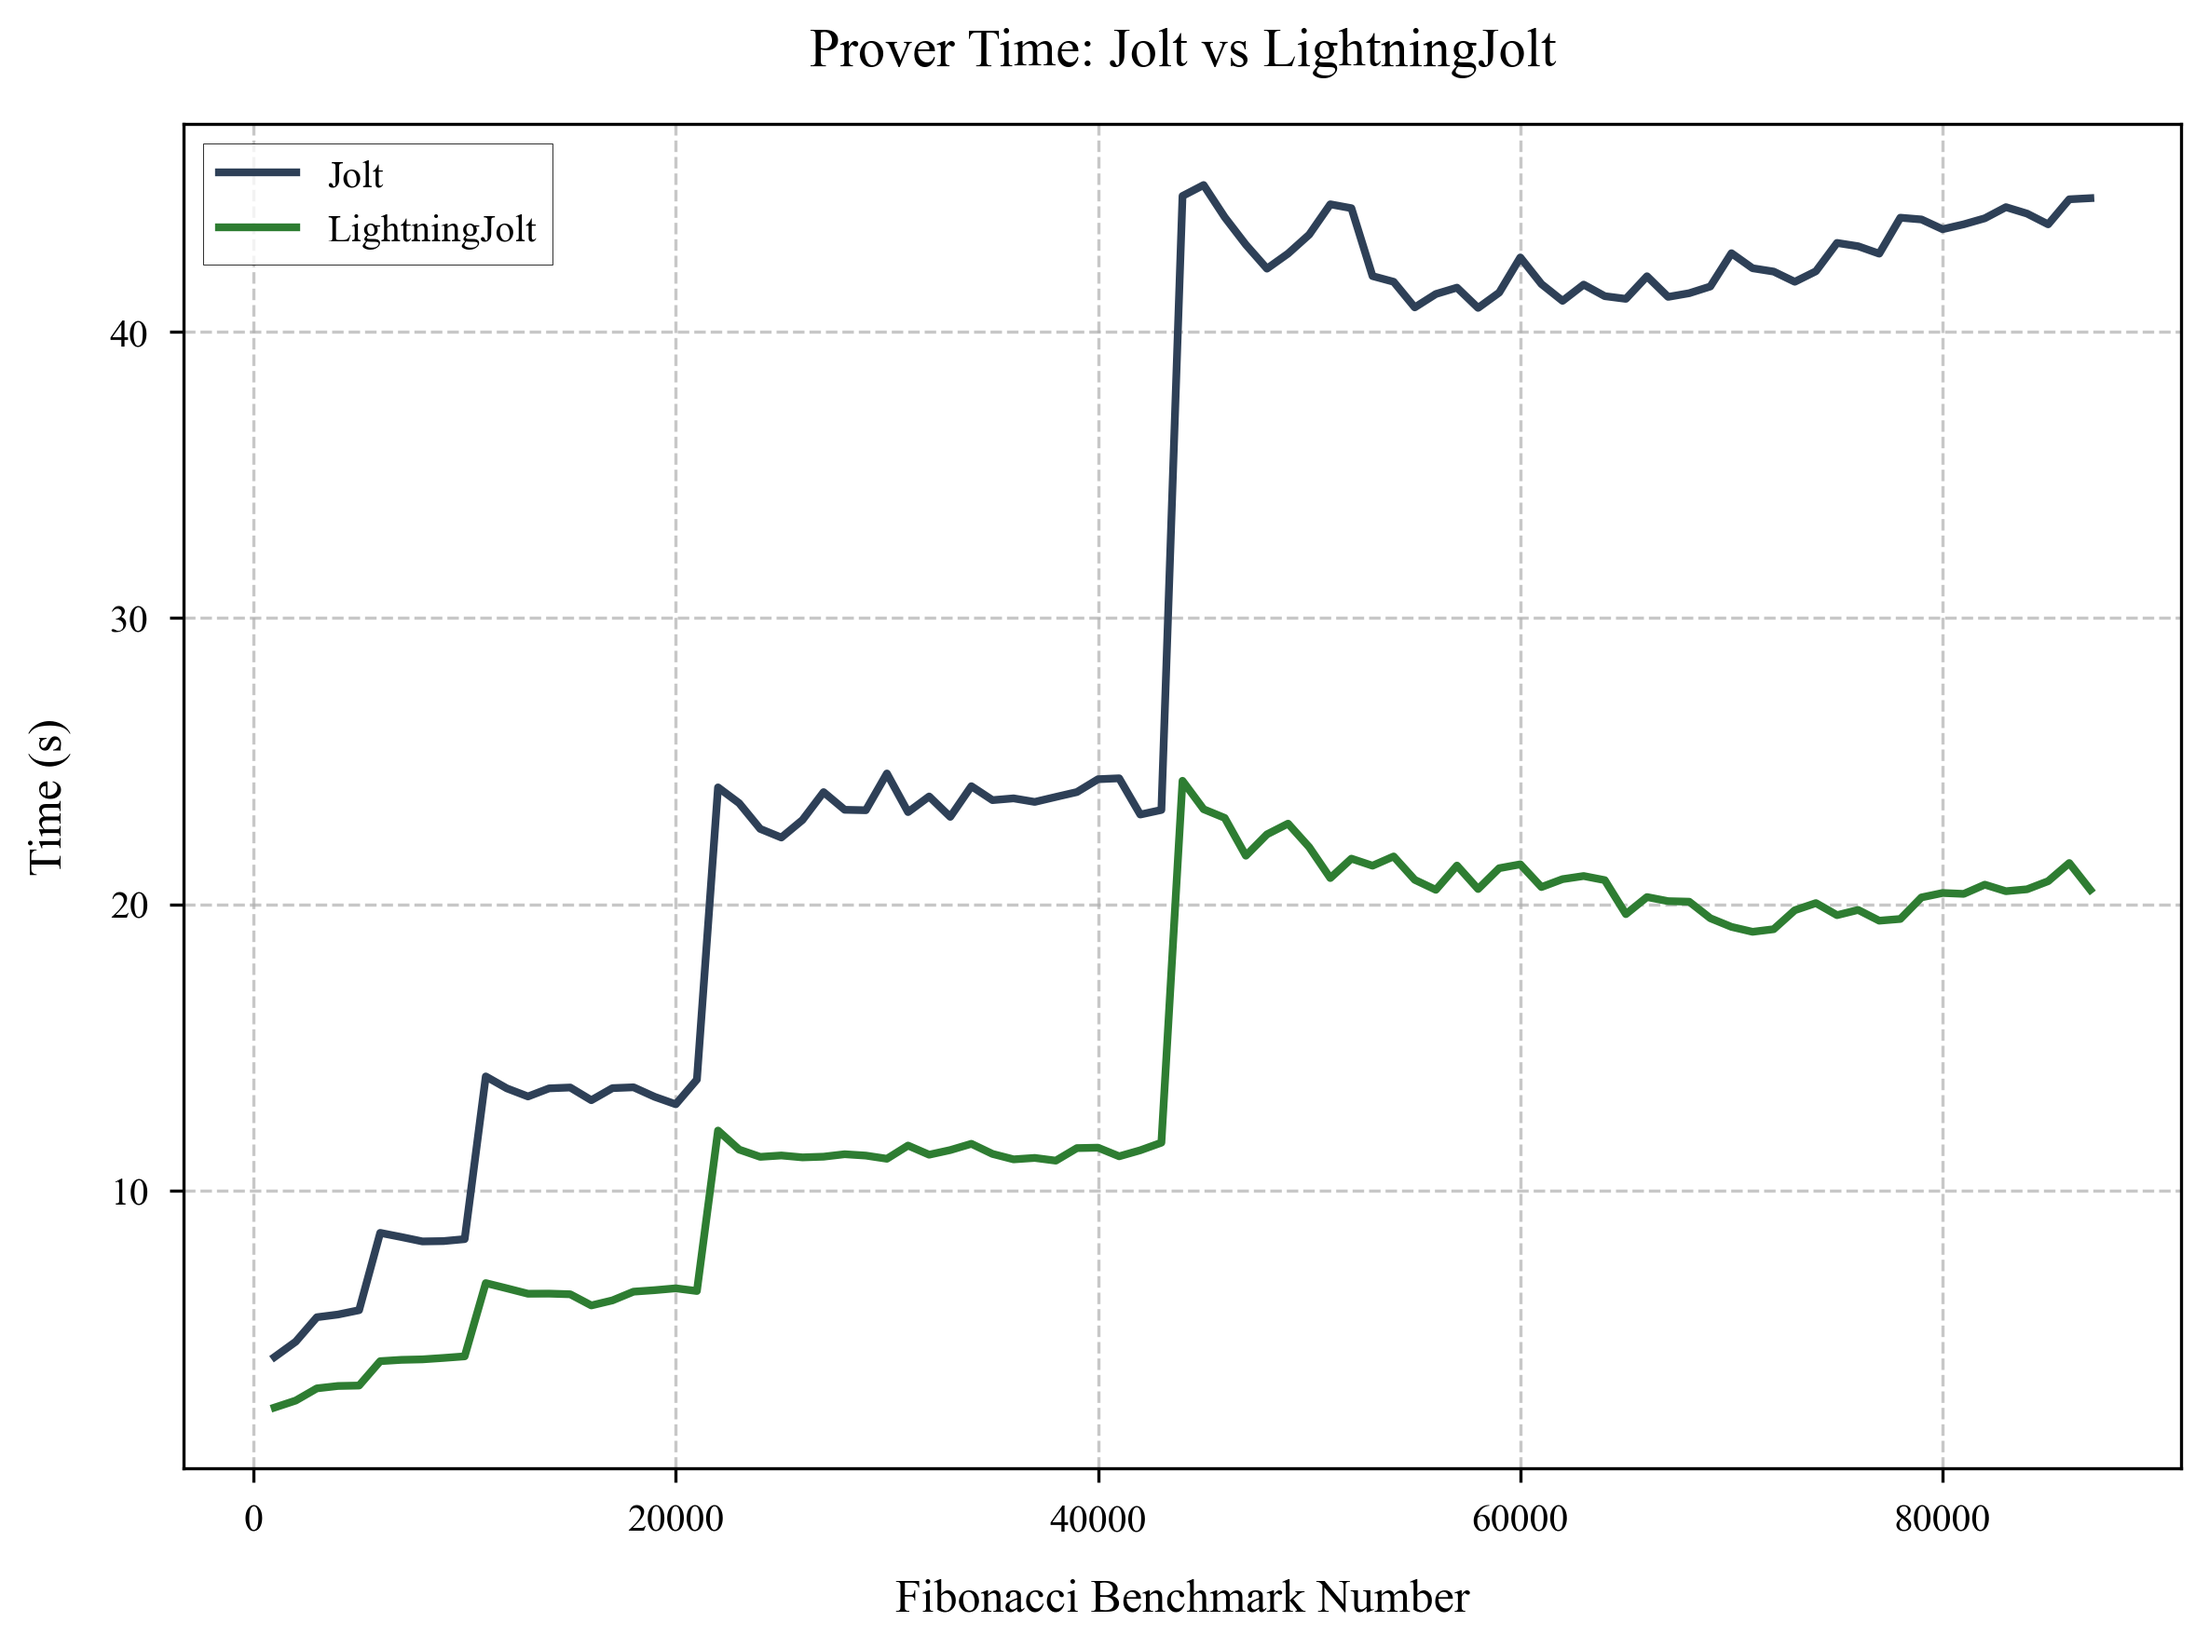
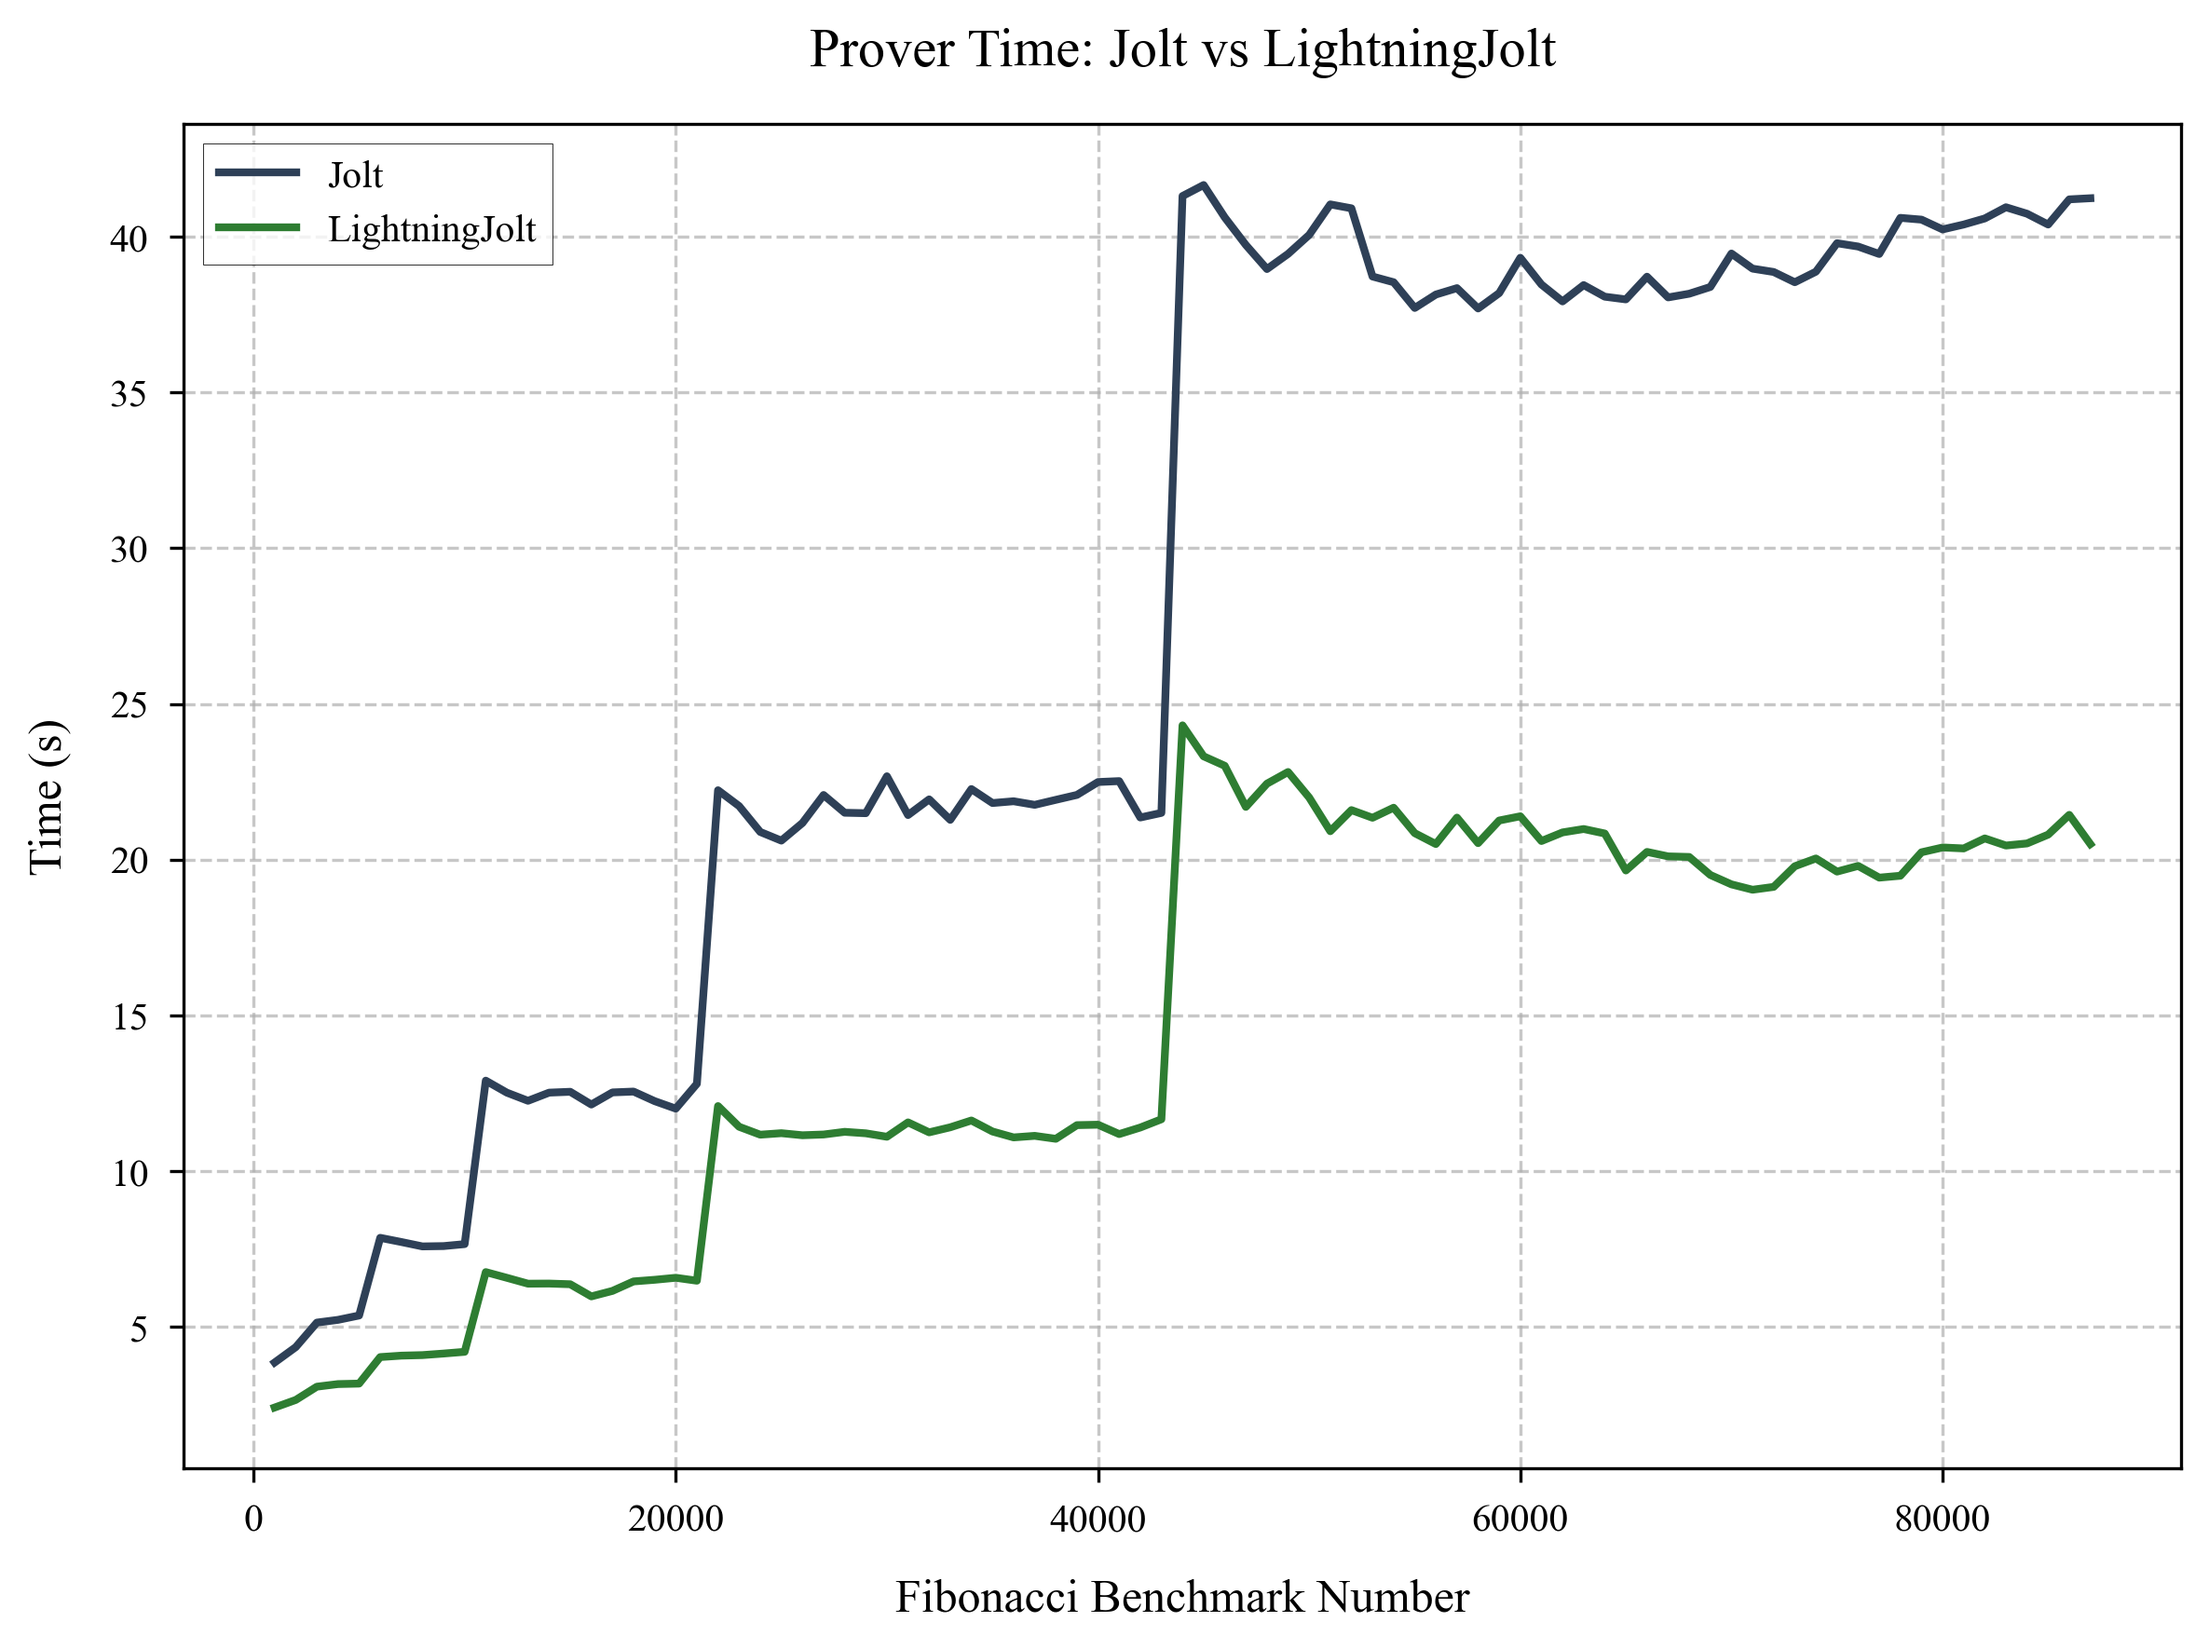
fixed graphs

diff --git a/python-plotter/mat-plot.py b/python-plotter/mat-plot.py
@@ -23,7 +23,7 @@ with open(os.path.join(script_dir, 'r1cs-results.txt'), 'r') as f:
 
 # Split data into x and y coordinates
 omc_x = [point[0] for point in omc_data]
-omc_y = [point[1]/1e9 * 5/3 for point in omc_data] # Convert to billions
+omc_y = [point[1]/1e9 * 5/3.25 for point in omc_data] # Convert to billions
 
 r1cs_x = [point[0] for point in r1cs_data] 
 r1cs_y = [point[1]/1e9 for point in r1cs_data] # Convert to billions
